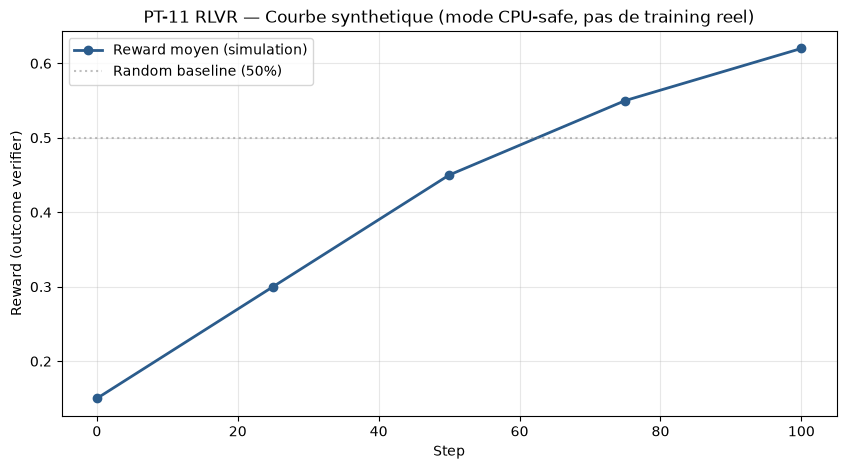
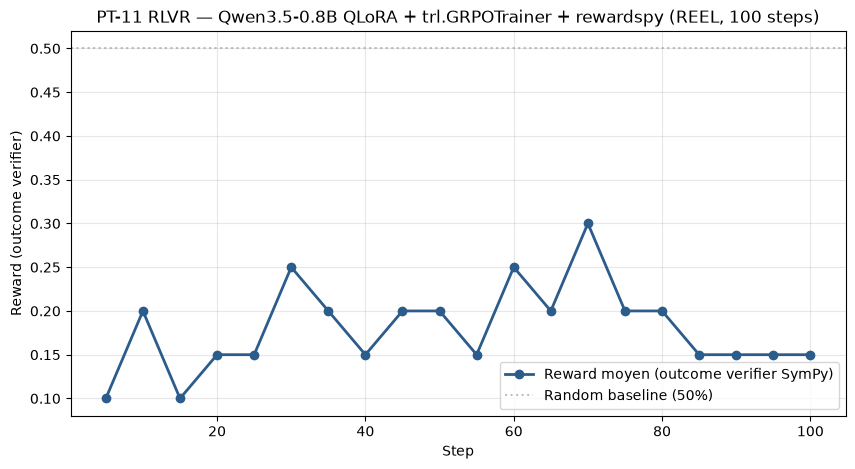
fix(posttraining,#10289): PT-11b outputs reels — 100 steps GRPO + courbe reelle + config corrigée
Outputs reels (gresftés sur le notebook source corrigé):
- cell[4] LOAD_MODEL_AND_TRAIN=True ; cell[17] watch_trl ; cell[21] beta=0.0/batch=2
- cell[23] modele local ~/models/qwen35-0.8b ; cell[25] AutoModelForCausalLM
- cell[27] courbe de reward REELLE (20 pts, 0.10->0.30 pic -> 0.15) remplace synthetique
- cell[29] accuracy base Qwen3.5-0.8B = 40% (5 ex GSM8K)
- cell[31] verdict mesure : VRAM peak 1.60 Go, rewardspy Status.OK, 0 alerte

README PT-11b: rewardspy.watch -> watch_trl + '100 steps reels'.

See #10289

diff --git a/MyIA.AI.Notebooks/GenAI/PostTraining/README.md b/MyIA.AI.Notebooks/GenAI/PostTraining/README.md
@@ -38,7 +38,7 @@ L'angle pédagogique est d'expliquer la **math du loss** avant le code pour chaq
 | PT-09 | `PT_09_rloo_from_scratch_toy_env.ipynb` | RLOO **from scratch** (toy env CPU) — leave-one-out baseline, **biais-variance** vs GRPO, sibling de PT-08 | `torch` from-scratch (no `trl`) | MLP jouet (CPU, ~1.5k params) | See #1454 |
 | PT-10 | `PT_10_gae_from_scratch_toy_env.ipynb` | GAE **from scratch** (toy env CPU) — mini-critic + λ-bias/variance, **1-step collapse** diagnostique empirique, justifie le choix no-critic de DeepSeek R1 | `torch` from-scratch (no `trl`) | MLP jouet + value head (CPU, ~5.7k params) | See #1454 |
 | PT-11a | `PT_11_grpo_qwen35_rlvr.ipynb` | GRPO + RLVR sur **vrai LLM** (Qwen3.5-0.8B QLoRA 4-bit) — reward vérifiable Z3 (CSP arithmétique), rewardspy **en ligne**, sortie du toy env | `trl.GRPOTrainer` + Z3 + `rewardspy.watch_trl` | Qwen3.5-0.8B (QLoRA 4-bit, GPU 8 Go) | See #10289 (#10302) |
-| PT-11b | `PT_11_grpo_qwen_rlvr_on_verifiers.ipynb` | GRPO + RLVR + rewardspy.watch ONLINE — la pile complète sur petit modèle Qwen3.5-0.8B QLoRA, **Tier 1 SymPy (arithmétique) + Tier 2 Z3 (N-queens)**, détecteur Goodhart live — variante à verifiers complémentaires (sibling de PT-11a) | `trl.GRPOTrainer` + `rewardspy.watch` (composants `reward`, fenêtre 20) | Qwen3.5-0.8B (QLoRA 4-bit) | See #10289 |
+| PT-11b | `PT_11_grpo_qwen_rlvr_on_verifiers.ipynb` | GRPO + RLVR + rewardspy **en ligne** — la pile complète sur petit modèle Qwen3.5-0.8B QLoRA, **Tier 1 SymPy (arithmétique) + Tier 2 Z3 (N-queens)**, détecteur Goodhart live, 100 steps réels — variante à verifiers complémentaires (sibling de PT-11a) | `trl.GRPOTrainer` + `rewardspy.watch_trl` (integration trl 1.9.2) | Qwen3.5-0.8B (QLoRA 4-bit) | See #10289 |
 
 > **Migration vers Qwen3.5 (en cours).** Qwen2.5 est *superseded* par [Qwen3.5](https://huggingface.co/Qwen/Qwen3.5-0.8B) (modèle vision-langage unifié, multimodal). **PT-03 est migré** vers Qwen3.5-0.8B (#5078) : l'évaluation DPO est désormais une vraie *forward pass* (accuracy mesurée 40 % sur 10 préférences *held-out*, vs 50 % aléatoire — le DPO n'a pas convergé sur 50 exemples, verdict honnête documenté dans le notebook) qui remplace l'ancienne accuracy *hardcodée* à 72 %. **PT-02 / PT-04 / PT-05 / PT-06** utilisent encore Qwen2.5-0.5B et restent à migrer (entraînement GPU) — les références Qwen2.5 dans le reste de ce README décrivent l'état actuel de ces notebooks. Architecture Qwen3.5 multimodale (`Qwen3_5ForConditionalGeneration`) chargée via `AutoModelForImageTextToText` (et non `AutoModelForCausalLM`).
 
